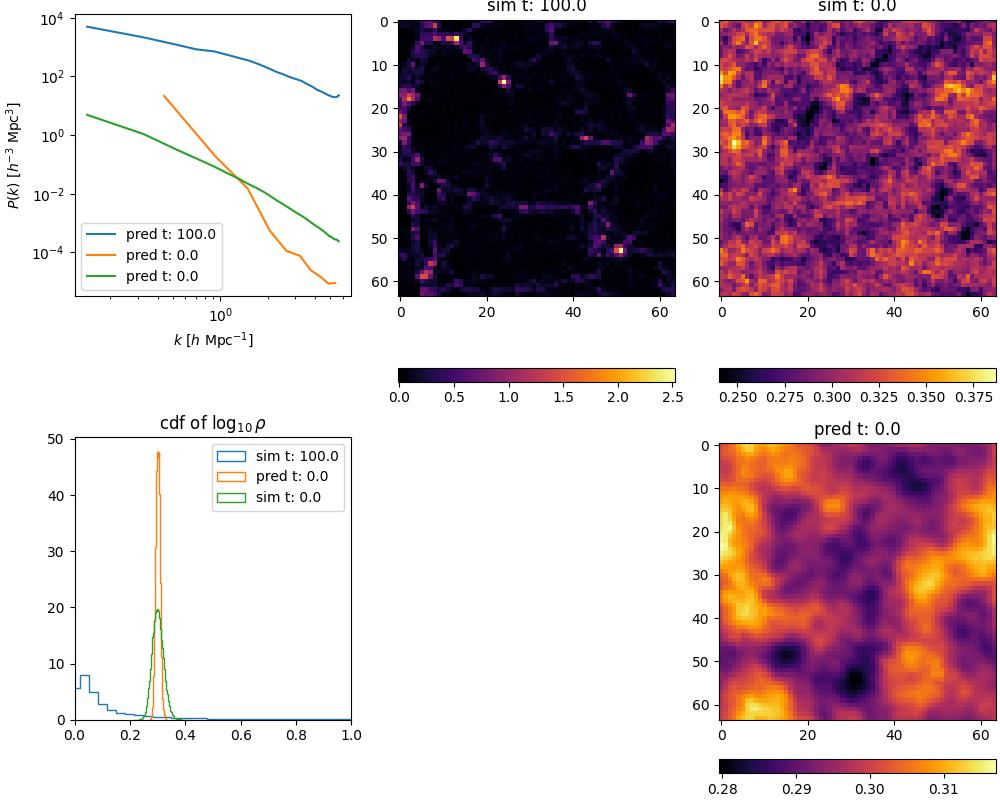
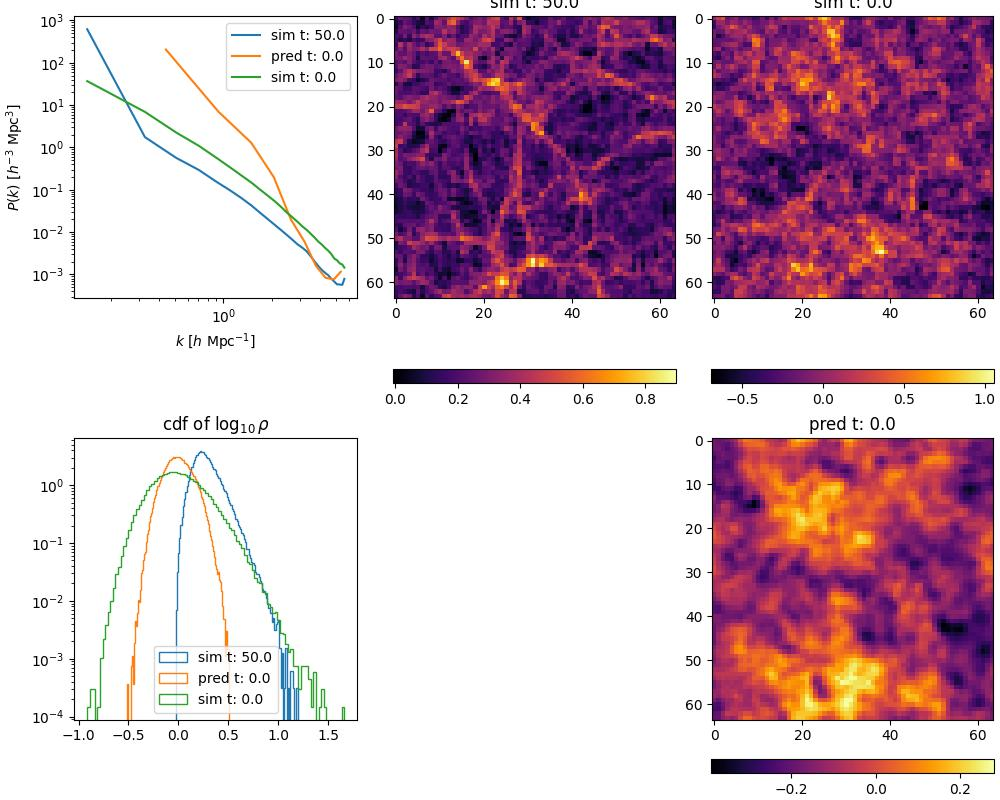
more normalization experiments with mauro

diff --git a/src/visualize/sequence.py b/src/visualize/sequence.py
@@ -51,13 +51,13 @@ def sequence(
             im_pred = ax_pred.imshow(sequence_prediction[frame, grid_size // 2, : , :], cmap='inferno')
             fig.colorbar(im_pred, ax=ax_pred, orientation='horizontal', location='bottom')
  
-            ax_cdf.hist(sequence_prediction[frame].flatten(), 100, density=True, histtype="step",
+            ax_cdf.hist(sequence_prediction[frame].flatten(), 100, density=True, log=True, histtype="step",
                                cumulative=False, label=f"pred t: {timeline[frame]}")
             
             # ax_cdf_rho.hist((jnp.power(10, sequence_prediction[frame])-2).flatten(), 100, density=True, histtype="step",
             #                    cumulative=False, label=f"pred t: {timeline[frame]}")
 
-            p,k = get_power(jnp.power(10, sequence_prediction[frame])-2, config.box_size)
+            p,k = get_power(sequence_prediction[frame], config.box_size)
             ax_power.plot(k, p, label=f"pred t: {timeline[frame]}")
 
         ax_seq = grid[0, frame + 1]
@@ -65,14 +65,14 @@ def sequence(
         im_seq = ax_seq.imshow(sequence[frame, grid_size // 2, : , :], cmap='inferno')
         fig.colorbar(im_seq, ax=ax_seq, orientation='horizontal', location='bottom')
 
-        ax_cdf.hist(sequence[frame].flatten(), 100, density=True, histtype="step",
+        ax_cdf.hist(sequence[frame].flatten(), 100, density=True, log=True, histtype="step",
                                cumulative=False, label=f"sim t: {timeline[frame]}")
         
         # ax_cdf_rho.hist((jnp.power(10, sequence[frame])-2).flatten(), 100, density=True, histtype="step",
         #                         cumulative=False, label=f"pred t: {timeline[frame]}")
         
-        p,k = get_power(jnp.power(10, sequence[frame, :, :, :, 0])-2, config.box_size)
-        ax_power.plot(k, p, label=f"pred t: {timeline[frame]}")
+        p,k = get_power(sequence[frame, :, :, :, 0], config.box_size)
+        ax_power.plot(k, p, label=f"sim t: {timeline[frame]}")
 
     ax_power.set_yscale('log')
     ax_power.set_xscale('log')
@@ -84,7 +84,7 @@ def sequence(
     # ax_cdf_rho.set_title(r'cdf of $\rho$')
 
     ax_cdf.legend()
-    ax_cdf.set_xlim(0, 1)
+    # ax_cdf.set_xlim(0, 1)
     
 
     plt.savefig(ouput_file)

diff --git a/src/nn/sequential_model.py b/src/nn/sequential_model.py
@@ -14,6 +14,7 @@ class SequentialModel(eqx.Module):
 
     model : eqx.Module
     sequence_length : int
+    normalization_params : jax.Array
 
     def __init__(
             self,
@@ -26,8 +27,16 @@ class SequentialModel(eqx.Module):
         self.sequence_length = sequence_length
 
         self.model = constructor(key=key, activation=activation, **parameters)
+
+        self.normalization_params = jnp.zeros(2)
+        self.normalization_params = self.normalization_params.at[0].set(1)
+        self.normalization_params = self.normalization_params.at[1].set(1)
                 
         return
+    
+    def normalize(self, x : jax.Array):
+        # return jnp.log10(x / (self.normalization_params[0]*10**4) + self.normalization_params[1])
+        return x
 
     def __call__(self, x : jax.Array, sequential_mode : bool):
         """
@@ -41,17 +50,18 @@ class SequentialModel(eqx.Module):
         time_grid = jnp.ones((1, d, w, h))
 
         if sequential_mode:
-            carry = x[0]
+            carry = self.normalize(x[0])
             for i in range(self.sequence_length):
                 # potential = potential_fn(carry)
-                # x_ = jnp.concatenate([carry, time_grid * i/self.sequence_length], axis=0)
+                x_ = jnp.concatenate([carry, time_grid * i/self.sequence_length + 1], axis=0)
                 carry = self.model(carry)
                 y = y.at[i].set(carry)
 
         else:
             for i in range(self.sequence_length):
                 # potential = potential_fn(x[i])
-                # x_ = jnp.concatenate([x[i], time_grid * i/self.sequence_length], axis=0)
-                y = y.at[i].set(self.model(x[i]))
+                x_ = jnp.concatenate([x[i], time_grid * i/self.sequence_length + 1], axis=0)
+                print(self.normalize(x[i]).shape)
+                y = y.at[i].set(self.model(self.normalize(x[i])))
 
         return y

diff --git a/src/data/directory_data.py b/src/data/directory_data.py
@@ -141,13 +141,28 @@ class DirectorySequence:
             # field_vz = cic_ma(pos, vz, self.grid_size)
 
             # timeline = timeline.at[i].set(header["time"])
+            # timeline = timeline.at[i].set(header["time"])
 
             with open(grid_file, 'rb') as f:
                 rho = jnp.frombuffer(f.read(), dtype=jnp.float32)
                 rho = rho.reshape(1, self.grid_size, self.grid_size, self.grid_size)
+                rho *= 2.777 * 10**11
+                # rho += 0.001
                 delta, mean = compute_overdensity(rho)
                 density_means = density_means.at[i].set(mean)
-                sequence = sequence.at[i].set(jnp.log10(delta+2))
+
+                if i == 0:
+                    # print(rho.min())
+                    # print(rho.max())
+                    mean = rho.mean()
+                    rho -= mean
+                    std = rho.std()
+                    rho /= std
+                    # print(std)
+                    sequence = sequence.at[i].set(rho)
+                else:
+                    rho += 0.001
+                    sequence = sequence.at[i].set(jnp.log10(rho / 10**4+ 1)/4)
             
         if self.flip:
             sequence = jnp.flip(sequence, axis=0)

diff --git a/src/train.py b/src/train.py
@@ -72,7 +72,7 @@ def main(argv) -> None:
     fno_hyperparams = {
         "modes" : 32,
         "input_channels" : 1,
-        "hidden_channels" : 8,
+        "hidden_channels" : 4,
         "output_channels" : 1,
         "n_fourier_layers" : 4}
 
@@ -107,7 +107,7 @@ def main(argv) -> None:
         n_epochs = config.n_epochs,
         sequential_mode = False)
     
-    # # train the model in sequential mode
+    # # # train the model in sequential mode
     # print(f"Sequential mode training for {config.n_epochs} epochs")
     # model_params, train_loss_sequential, val_loss_sequential, time = nn.train_model(
     #     model_params = model_params,

diff --git a/src/evaluate.py b/src/evaluate.py
@@ -39,7 +39,7 @@ def main(argv) -> None:
     # data_iterator = DALIGenericIterator(data_pipeline, ["data", "step", "mean"])
 
     sample = next(data_iterator)
-    sequence = jax.device_put(sample['data'], jax.devices('gpu')[0])[3]
+    sequence = jax.device_put(sample['data'], jax.devices('gpu')[0])[0]
     pred = model(sequence, False)
     pred_sequential = model(sequence, True)
 
